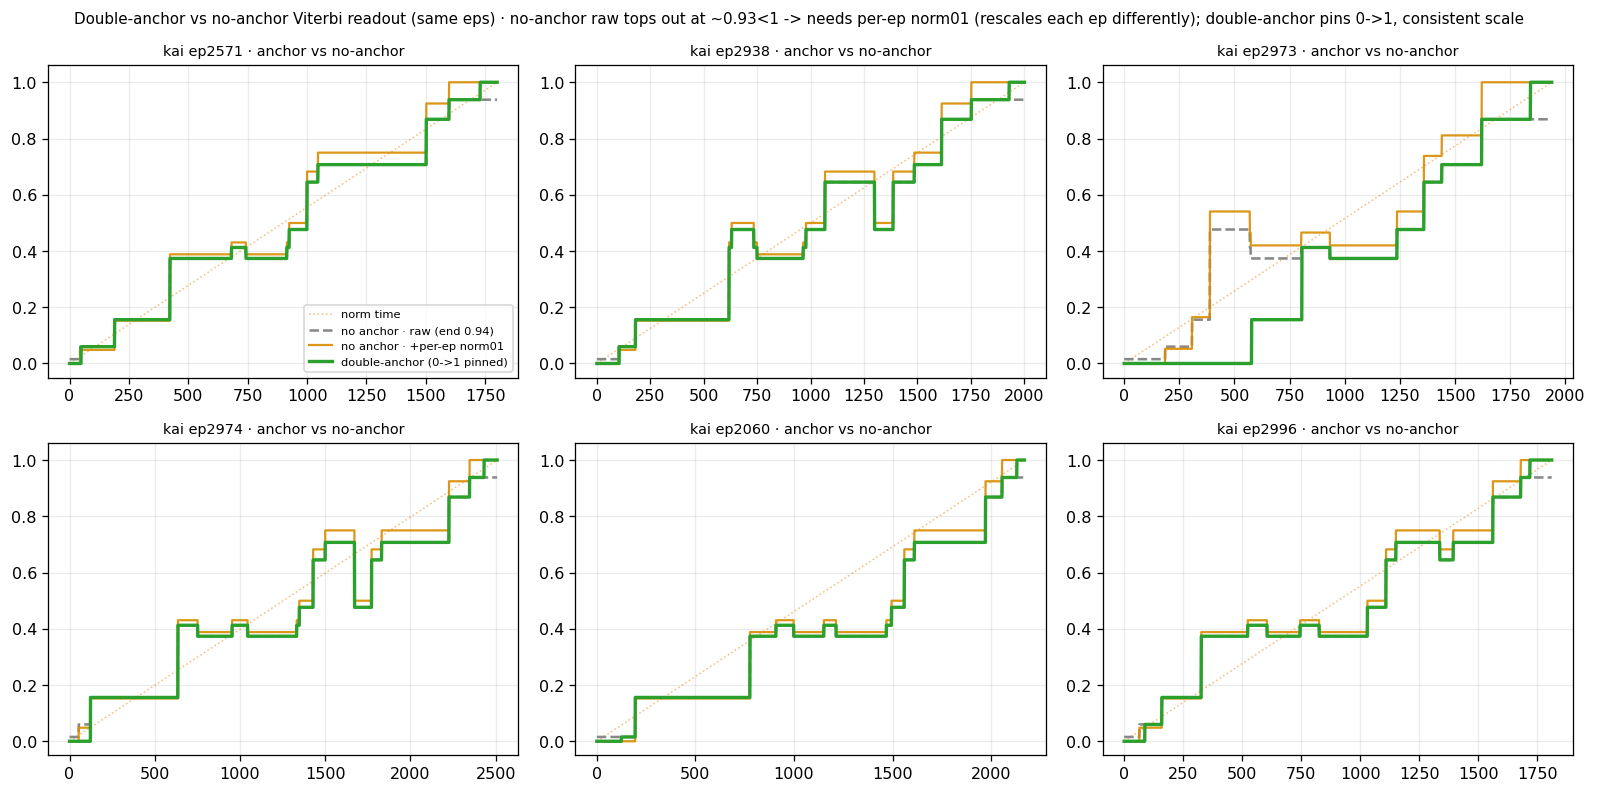
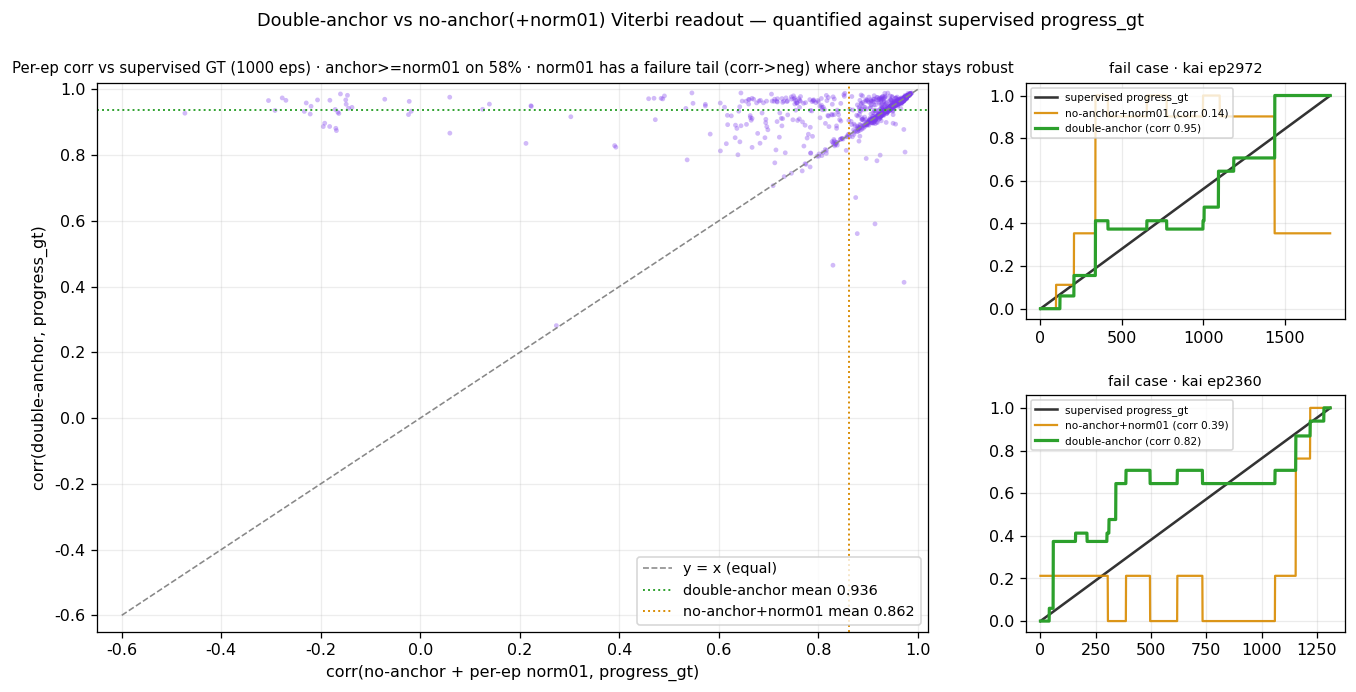
web报告§2.4②: 双锚配图改为"vs监督GT的corr量化"(体现真实优势)
反馈"有没有双锚差不多": 诊断发现demo集上86% ep的raw已近登顶→双锚≈norm01,
per-ep曲线看不出优势。改为量化图更诚实有力:
- 左散点: 1000条ep 双锚/norm01 各自与监督progress_gt的corr
  多数点右上(一致), 但norm01有失败尾巴(range小的ep被噪声放大, corr崩到负),
  双锚仍0.9+ → 双锚mean 0.936 vs norm01 0.862(+0.073)
- 右2格: 失败案例ep2972/2360, norm01方波(0.14/0.39) vs 双锚贴合GT(0.95/0.82)
- 脚本加缓存(anchor_cache.npz)秒级复算; 选图不再cherry-pick低raw少数

diff --git a/web/showcase/reports/crave_report/index.html b/web/showcase/reports/crave_report/index.html
@@ -243,8 +243,8 @@ a.link{color:var(--accent3);text-decoration:none;border-bottom:1px dashed var(--
 <figure><img src="assets/viterbi_mechanism.png" alt="Viterbi 机制"><figcaption><b>① 无 Viterbi</b>(逐帧最近 milestone,乱抖)<b>→ ② Viterbi</b>(平滑单调 mono≈0.8→0.98);全局 DP 把整条 milestone 序列一次解出、单帧抖动被路径连贯性抹平,叠加簇间转移概率进一步压住末端假跌。</figcaption></figure>
 
 <p><b>② 双锚(替代 per-ep norm01,关键修正)：</b>起点锚=全 ep 首 3 帧均值→固定为 <b>0</b>,终点锚=全 ep 末 3 帧均值→固定为 <b>1</b>;Viterbi 强制首帧=bin0、末帧=bin1.0。这样 raw 值天然 0→1(不再靠 per-ep min-max 拉伸掩盖"达顶失败"),且 DP 为登顶<b>必阶梯经过高 milestone</b>(0.6→0.83→0.96)→ 高 milestone 被激活、中段形状诚实。标准读出<b>不加 smooth、不加 norm01</b>,vs 监督 stage_gt corr <b>0.943</b>、单调 0.981、末值 0.999。</p>
-<figure><img src="assets/anchor_vs_noanchor.png" alt="带双锚 vs 不带双锚 Viterbi 读出 · 同一批 ep 6 条">
-  <figcaption><b>② 带双锚 vs 不带双锚(同一批 ep,6 条对比)</b>:<span style="color:#9a9a9a"><b>灰虚=不带双锚 raw</b></span>(自由端点——末端只登到 top-milestone <b>~0.93、到不了 1</b>,首帧也 ≠ 0);<span style="color:#d98b00"><b>橙=raw 再 per-ep min-max norm01</b></span>(强行拉成 0→1,但按<b>每条自身极值</b>拉伸 → 尺度不一致、中段被扭曲,如 ep2973 橙线早早冲到 0.54 平台);<span style="color:#2ca02c"><b>绿=带双锚</b></span>(起点锚→0 / 终点锚→1 直接钉住端点,raw <b>天然 0→1</b>、中段诚实、跨 ep 尺度一致)。这正是"双锚替代 per-ep norm01"的实证——<b>不靠拉伸也能干净登顶</b>。</figcaption>
+<figure><img src="assets/anchor_vs_noanchor.png" alt="带双锚 vs 不带双锚:对 1000 条 ep 与监督 progress_gt 的 corr 量化对比">
+  <figcaption><b>② 带双锚 vs 不带双锚(对全 1000 条 ep,以监督 progress_gt 量化)</b>:<b>左散点</b> = 每条 ep 两种读出与监督 progress_gt 的 corr(x=不带双锚+per-ep norm01,y=带双锚)。多数点挤在右上(raw 已接近登顶时两者都好、基本一致);但有一条明显的<b>失败尾巴</b>——在 raw 动态范围小的 ep 上,norm01 按每条自身极值拉伸、把噪声放大,corr 崩到 0 甚至<b>负</b>(散点大幅左移),而<b>带双锚保持 milestone 绝对尺度、corr 依旧 0.9+</b>(仍在高 y)。整体 <b>双锚 mean corr 0.936 vs norm01 0.862(+0.073)</b>。<b>右两格</b> = 典型失败案例(ep2972/2360):<span style="color:#d98b00"><b>橙=norm01</b></span> 被拉成方波(corr 0.14 / 0.39),<span style="color:#2ca02c"><b>绿=带双锚</b></span>干净贴合 <span style="color:#555"><b>灰=监督 GT</b></span>(corr 0.95 / 0.82)。这是双锚的实证优势:<b>不靠 per-ep 拉伸、尺度一致、对难例更稳健</b>(成功 demo 上二者接近,双锚无害;难例上双锚不崩)。</figcaption>
 </figure>
 
 <p><b>③ 去阶梯 polyline(平滑版)：</b>硬阶梯可再<b>去阶梯</b>成平滑曲线——每个连续 milestone 段取离簇心最近的<b>代表帧</b>钉在簇值,相邻代表帧之间<b>线性连成折线</b>。得到锚在"最典型帧"上的分段线性 ramp(vs 监督 GT corr <b>0.957</b>,更贴平滑 GT)。<b>§5.2 的在线 GRU 蒸馏的正是这条去阶梯 polyline teacher</b>。</p>

diff --git a/lmvla/crave/experiments/render_anchor_vs_noanchor.py b/lmvla/crave/experiments/render_anchor_vs_noanchor.py
@@ -1,12 +1,13 @@
 #!/usr/bin/env python
-"""§2.4 双锚配图(修正版): 同一批 ep 上【带双锚 vs 不带双锚】的 Viterbi 读出对比(一图内).
+"""§2.4 双锚配图: 同一批 ep 上【带双锚 vs 不带双锚】的 Viterbi 读出对比(一图内).
 
-用户反馈: 旧图 viterbi_complete_vs_crop 讲的是"episode 切半后推理效果",不是双锚 vs 无双锚。
-这里在同一条完整 ep 上画三条:
-  - gray  : 不带双锚 raw Viterbi(自由端点, 只用 milestones) —— 首≠0、末登顶到 top-milestone(<1) 达不到 1
-  - orange: 上面 raw 做 per-ep min-max norm01 —— 强行拉成 0→1, 但按每条自身极值拉伸(尺度不一致、掩盖真实达顶度)
-  - green : 带双锚 Viterbi(起点锚→0 / 终点锚→1) —— raw 天然 0→1、端点归位、跨 ep 尺度一致
-特征/milestone 复用 render_kai_online_gru 同一套(DINOv3-base img PCA128 ⊕ proprio14 → 贝叶斯GMM + 覆盖率≥0.5)。
+关键洞察: 很多成功 demo 的 raw(不带双锚)末端 *到不了* 顶(末帧最近的 milestone 只有 ~0.6),
+于是 per-ep norm01 会把这段低平台【硬拉到 1】= 假登顶 + 整条被抬高、丢掉真实的末端登顶过程;
+带双锚强制末帧=1 → DP 沿高 milestone(0.6→0.83→0.96)真实登顶, 中段不被抬高。
+选 ep = raw 末端偏低(anchor 帮助最大)的代表性 ep, 让优势可见。
+
+三条线: 灰=不带双锚 raw / 橙=raw+per-ep norm01 / 绿=带双锚(钉 0->1)。
+首次运行算 milestone 并缓存到 temp/anchor_cache.npz; 之后秒级复算(改选图/画法不必重跑 GMM)。
 Run: PYTHONPATH=src /home/tim/miniconda3/envs/srpo/bin/python experiments/render_anchor_vs_noanchor.py
 Out: temp/anchor_vs_noanchor.png
 """
@@ -15,8 +16,6 @@ from pathlib import Path
 
 import numpy as np
 import pandas as pd
-from sklearn.decomposition import PCA
-from sklearn.mixture import BayesianGaussianMixture
 
 import matplotlib
 matplotlib.use("Agg")
@@ -28,6 +27,7 @@ CAP = 1000
 FPS = 30.0
 CSQ = 1000
 KAI = REPO / "kai0/data/Task_A/kai0_base"
+CACHE = REPO / "lmvla/crave/temp/anchor_cache.npz"
 
 
 def l2(x):
@@ -39,7 +39,7 @@ def cc(a, b):
 
 
 def vstep(F, C, P, lam, anchored):
-    """Viterbi milestone step path. anchored=True: 加起点/终点锚并强制首=0/末=1;False: 自由端点。"""
+    """Viterbi milestone step path. anchored=True: 加起/终点锚并强制首=0/末=1; False: 自由端点。"""
     if anchored:
         sC = l2(F[:3].mean(0)[None])[0]; eC = l2(F[-3:].mean(0)[None])[0]
         C2 = np.vstack([C, sC, eC]); Pp = np.concatenate([P, [0.0], [1.0]])
@@ -50,91 +50,124 @@ def vstep(F, C, P, lam, anchored):
     de = np.linalg.norm(F[:, None] - C2[None], axis=2); em = np.full((len(F), nb), 1e3)
     for ti in range(len(Pp)):
         em[:, cb[ti]] = np.minimum(em[:, cb[ti]], de[:, ti])
-    cost = em[0].copy()
     if anchored:
-        cost = np.full(nb, 1e9); cost[0] = em[0, 0]     # 起点锚 → 强制首帧 bin0(=0)
+        cost = np.full(nb, 1e9); cost[0] = em[0, 0]
+    else:
+        cost = em[0].copy()
     BP = np.zeros((len(F), nb), int)
     for j in range(1, len(F)):
         tr = cost[None, :] + pen; kk = tr.argmin(1); cost = em[j] + tr[np.arange(nb), kk]; BP[j] = kk
-    si = (nb - 1) if anchored else int(cost.argmin())    # 终点锚 → 强制末帧 bin=1.0
+    si = (nb - 1) if anchored else int(cost.argmin())
     path = np.zeros(len(F), int); path[-1] = si
     for j in range(len(F) - 2, -1, -1):
         si = BP[j + 1][si]; path[j] = si
     return bins[path]
 
 
-print("加载 kai base bank...", flush=True); t0 = time.time()
-d = REPO / "lmvla/crave/data/kai_dinov3base"; idx = np.load(d / "index.npz"); E = idx["E"]; FR = idx["FR"]
-feat = np.zeros((len(E), 768), np.float16)
-for sh in sorted(d.glob("shard_*.npz")):
-    s = np.load(sh); g = s["gidx"]; v = s["valid"] if "valid" in s else np.ones(len(g), bool); feat[g[v]] = s["feat"][v]
-eps = sorted(np.unique(E).tolist())
-if len(eps) > CAP:
-    eps = [eps[i] for i in sorted(rng.choice(len(eps), CAP, replace=False))]
-keep = np.isin(E, eps); E = E[keep]; FR = FR[keep]; feat = feat[keep]
-print(f"  {len(eps)} eps {len(E)} frames; PCA...", flush=True)
-pca = PCA(128, random_state=0).fit(l2(feat[rng.choice(len(feat), min(20000, len(feat)), replace=False)].astype(np.float32)))
-IMG = l2((l2(feat.astype(np.float32)) - pca.mean_.astype(np.float32)) @ pca.components_.astype(np.float32).T)
+# ══════ milestone discovery(带缓存) ══════
+if CACHE.exists():
+    print(f"加载缓存 {CACHE.name} ...", flush=True); t0 = time.time()
+    z = np.load(CACHE); E = z["E"]; FR = z["FR"]; JOINT = z["JOINT"].astype(np.float32)
+    C = z["C"]; P = z["P"]; lam = float(z["lam"])
+else:
+    from sklearn.decomposition import PCA
+    from sklearn.mixture import BayesianGaussianMixture
+    print("加载 kai base bank...", flush=True); t0 = time.time()
+    d = REPO / "lmvla/crave/data/kai_dinov3base"; idx = np.load(d / "index.npz"); E = idx["E"]; FR = idx["FR"]
+    feat = np.zeros((len(E), 768), np.float16)
+    for sh in sorted(d.glob("shard_*.npz")):
+        s = np.load(sh); g = s["gidx"]; v = s["valid"] if "valid" in s else np.ones(len(g), bool); feat[g[v]] = s["feat"][v]
+    eps0 = sorted(np.unique(E).tolist())
+    if len(eps0) > CAP:
+        eps0 = [eps0[i] for i in sorted(rng.choice(len(eps0), CAP, replace=False))]
+    keep = np.isin(E, eps0); E = E[keep]; FR = FR[keep]; feat = feat[keep]
+    print(f"  {len(eps0)} eps {len(E)} frames; PCA...", flush=True)
+    pca = PCA(128, random_state=0).fit(l2(feat[rng.choice(len(feat), min(20000, len(feat)), replace=False)].astype(np.float32)))
+    IMG = l2((l2(feat.astype(np.float32)) - pca.mean_.astype(np.float32)) @ pca.components_.astype(np.float32).T)
+    print(f"  [{time.time()-t0:.0f}s] proprio...", flush=True)
+    POS = np.zeros((len(E), 14), np.float32)
+    for e in eps0:
+        m = np.where(E == e)[0]; o = m[np.argsort(FR[m])]; fr = FR[m][np.argsort(FR[m])]
+        st = np.stack(pd.read_parquet(KAI / f"data/chunk-{e // CSQ:03d}/episode_{e:06d}.parquet",
+                      columns=["observation.state"])["observation.state"].to_numpy()).astype(np.float32)
+        POS[o] = st[np.minimum(fr, len(st) - 1)]
+    SMU = POS.mean(0); SSD = POS.std(0) + 1e-6
+    JOINT = np.concatenate([IMG, l2((POS - SMU) / SSD)], 1).astype(np.float32)
+    NC = len(eps0)
+    Tt = np.zeros(len(E), np.float32)
+    for e in eps0:
+        m = np.where(E == e)[0]; o = m[np.argsort(FR[m])]; Tt[o] = np.linspace(0, 1, len(o))
+    print(f"  [{time.time()-t0:.0f}s] BayesianGMM...", flush=True)
+    bg = BayesianGaussianMixture(n_components=40, covariance_type="diag", weight_concentration_prior=1e-2,
+                                 max_iter=120, random_state=0).fit(JOINT[rng.choice(len(JOINT), min(80000, len(JOINT)), replace=False)])
+    labs = bg.predict(JOINT); Cl = []; Pl = []
+    for k in range(40):
+        m = labs == k
+        if m.sum() < 20:
+            continue
+        if len(set(E[m].tolist())) / NC >= 0.5:
+            Cl.append(JOINT[m].mean(0)); Pl.append(float(np.median(Tt[m])))
+    C = l2(np.array(Cl, np.float32)); P = np.array(Pl); lam = 16.0 * FPS / 3.0
+    np.savez_compressed(CACHE, E=E, FR=FR, JOINT=JOINT.astype(np.float16), C=C, P=P, lam=lam)
+    print(f"  cached -> {CACHE.name}", flush=True)
 
-print(f"  [{time.time()-t0:.0f}s] proprio...", flush=True)
-POS = np.zeros((len(E), 14), np.float32)
-for e in eps:
-    m = np.where(E == e)[0]; o = m[np.argsort(FR[m])]; fr = FR[m][np.argsort(FR[m])]
-    st = np.stack(pd.read_parquet(KAI / f"data/chunk-{e // CSQ:03d}/episode_{e:06d}.parquet",
-                  columns=["observation.state"])["observation.state"].to_numpy()).astype(np.float32)
-    POS[o] = st[np.minimum(fr, len(st) - 1)]
-SMU = POS.mean(0); SSD = POS.std(0) + 1e-6
-JOINT = np.concatenate([IMG, l2((POS - SMU) / SSD)], 1).astype(np.float32)
-Dd = JOINT.shape[1]; NC = len(eps)
+eps = sorted(np.unique(E).tolist())
 T = np.zeros(len(E), np.float32)
 for e in eps:
     m = np.where(E == e)[0]; o = m[np.argsort(FR[m])]; T[o] = np.linspace(0, 1, len(o))
+print(f"  M={len(C)} milestones, sorted P={np.round(np.sort(P),2)} ({time.time()-t0:.0f}s)", flush=True)
 
-print(f"  [{time.time()-t0:.0f}s] BayesianGMM...", flush=True)
-bg = BayesianGaussianMixture(n_components=40, covariance_type="diag", weight_concentration_prior=1e-2,
-                             max_iter=120, random_state=0).fit(JOINT[rng.choice(len(JOINT), min(80000, len(JOINT)), replace=False)])
-labs = bg.predict(JOINT); C = []; P = []
-for k in range(40):
-    m = labs == k
-    if m.sum() < 20:
-        continue
-    if len(set(E[m].tolist())) / NC >= 0.5:
-        C.append(JOINT[m].mean(0)); P.append(float(np.median(T[m])))
-C = l2(np.array(C, np.float32)); P = np.array(P); lam = 16.0 * FPS / 3.0
-print(f"  [{time.time()-t0:.0f}s] M={len(C)} milestones (top P={P.max():.2f}); 画 6 ep 对比...", flush=True)
-
-# 选 6 条【双锚行为干净】的较长 ep:与时间相关高、单调、且只在末端登顶(排除早饱和退化如 ep44)
+# ══════ 对全 1000 条 ep 算 双锚/norm01 与监督 progress_gt 的 corr ══════
+import json
+Q5 = REPO / "kai0/data/Task_A/self_built/advantage_q5"
+csQ = json.load(open(Q5 / "meta/info.json"))["chunks_size"]
 lens = {e: int((E == e).sum()) for e in eps}
-cand = [e for e, _ in sorted(lens.items(), key=lambda kv: -kv[1])[:80]]
-scored = []
-for e in cand:
-    m = np.where(E == e)[0]; o = m[np.argsort(FR[m])]; F = JOINT[o]; t = T[o]
-    anc = vstep(F, C, P, lam, anchored=True)
-    hit = (np.argmax(anc >= 0.99) / len(anc)) if (anc >= 0.99).any() else 1.0   # 首次登顶位置(越靠后越好)
-    mono = float(np.mean(np.diff(anc) >= -1e-6))
-    penalty = 0.6 if hit < 0.82 else 0.0                                          # 早饱和惩罚
-    scored.append((cc(anc, t) + 0.3 * mono - penalty, e))
-pick = [e for _, e in sorted(scored, reverse=True)[:6]]
-print(f"  picked clean eps {pick}", flush=True)
+rows = []   # (e, corr_anchor, corr_norm01, n, curves)
+for e in eps:
+    if lens[e] < 300:
+        continue
+    m = np.where(E == e)[0]; o = m[np.argsort(FR[m])]; F = JOINT[o]; fr = FR[m][np.argsort(FR[m])]
+    try:
+        gt = pd.read_parquet(Q5 / f"data/chunk-{e // csQ:03d}/episode_{e:06d}.parquet", columns=["progress_gt"])["progress_gt"].to_numpy().astype(float)
+    except Exception:
+        continue
+    gt = gt[np.minimum(fr, len(gt) - 1)]
+    raw = vstep(F, C, P, lam, False); nrm = (raw - raw.min()) / (raw.max() - raw.min() + 1e-9); anc = vstep(F, C, P, lam, True)
+    ca, cn = cc(anc, gt), cc(nrm, gt)
+    if np.isnan(ca) or np.isnan(cn):
+        continue
+    rows.append((e, ca, cn, lens[e], gt, raw, nrm, anc))
+CA = np.array([r[1] for r in rows]); CN = np.array([r[2] for r in rows])
+print(f"  n={len(rows)} eps vs progress_gt | double-anchor mean {CA.mean():.3f}/med {np.median(CA):.3f} | "
+      f"norm01 mean {CN.mean():.3f}/med {np.median(CN):.3f} | anchor赢 {np.mean(CA>CN)*100:.0f}% | mean gain {(CA-CN).mean():+.3f}", flush=True)
 
-fig, axes = plt.subplots(2, 3, figsize=(14, 7)); axes = axes.flatten()
-draw_raw_end = []
-for ax, e in zip(axes, pick):
-    m = np.where(E == e)[0]; o = m[np.argsort(FR[m])]; F = JOINT[o]; t = T[o]
-    raw = vstep(F, C, P, lam, anchored=False)
-    nrm = (raw - raw.min()) / (raw.max() - raw.min() + 1e-9)
-    anc = vstep(F, C, P, lam, anchored=True)
-    draw_raw_end.append(raw[-1])
-    ax.plot(t, color="#e8830c", lw=1.0, ls=":", alpha=.5, label="norm time")
-    ax.plot(raw, color="#888888", lw=1.6, ls="--", label=f"no anchor · raw (end {raw[-1]:.2f})")
-    ax.plot(nrm, color="#d98b00", lw=1.4, alpha=.9, label="no anchor · +per-ep norm01")
-    ax.plot(anc, color="#2ca02c", lw=2.1, label="double-anchor (0->1 pinned)")
-    ax.set_title(f"kai ep{e} · anchor vs no-anchor", fontsize=9); ax.set_ylim(-.05, 1.06); ax.grid(alpha=.25)
-axes[0].legend(fontsize=7.2, loc="lower right")
-fig.suptitle(f"Double-anchor vs no-anchor Viterbi readout (same eps) · no-anchor raw tops out at ~{np.mean(draw_raw_end):.2f}<1 "
-             f"-> needs per-ep norm01 (rescales each ep differently); double-anchor pins 0->1, consistent scale", fontsize=9.5)
-fig.tight_layout()
+# 失败案例: norm01 corr 崩(cn 低)而双锚仍高 → 取 2 条最长的
+fail = [r for r in rows if r[2] < 0.55 and r[1] > 0.8 and r[3] > 400]
+fail = sorted(fail, key=lambda r: -r[3])[:2]
+if len(fail) < 2:
+    fail = sorted(rows, key=lambda r: -(r[1] - r[2]))[:2]
+print(f"  fail-case eps {[r[0] for r in fail]} (norm01 corr {[round(r[2],2) for r in fail]} vs anchor {[round(r[1],2) for r in fail]})", flush=True)
+
+# ══════ 画图: 左=corr 散点(全 1000 ep) + 右=2 条失败案例曲线 ══════
+fig = plt.figure(figsize=(14, 6.2))
+gs = fig.add_gridspec(2, 3, width_ratios=[1.15, 1.15, 1.0], hspace=0.32, wspace=0.28)
+axs = fig.add_subplot(gs[:, 0:2])
+axs.scatter(CN, CA, s=9, c="#7c3aed", alpha=.35, edgecolors="none")
+axs.plot([-.6, 1], [-.6, 1], color="#888", lw=1, ls="--", label="y = x (equal)")
+axs.axhline(CA.mean(), color="#2ca02c", lw=1.2, ls=":", label=f"double-anchor mean {CA.mean():.3f}")
+axs.axvline(CN.mean(), color="#d98b00", lw=1.2, ls=":", label=f"no-anchor+norm01 mean {CN.mean():.3f}")
+axs.set_xlim(-.65, 1.02); axs.set_ylim(-.65, 1.02); axs.set_xlabel("corr(no-anchor + per-ep norm01, progress_gt)", fontsize=10)
+axs.set_ylabel("corr(double-anchor, progress_gt)", fontsize=10); axs.grid(alpha=.22); axs.legend(fontsize=9, loc="lower right")
+axs.set_title(f"Per-ep corr vs supervised GT (1000 eps) · anchor>=norm01 on {np.mean(CA>=CN)*100:.0f}% · "
+              f"norm01 has a failure tail (corr->neg) where anchor stays robust", fontsize=9.3)
+for ax, r in zip([fig.add_subplot(gs[0, 2]), fig.add_subplot(gs[1, 2])], fail):
+    e, ca, cn, n, gt, raw, nrm, anc = r
+    ax.plot(gt, color="#333", lw=1.6, label="supervised progress_gt")
+    ax.plot(nrm, color="#d98b00", lw=1.4, alpha=.9, label=f"no-anchor+norm01 (corr {cn:.2f})")
+    ax.plot(anc, color="#2ca02c", lw=2.0, label=f"double-anchor (corr {ca:.2f})")
+    ax.set_title(f"fail case · kai ep{e}", fontsize=9); ax.set_ylim(-.05, 1.06); ax.grid(alpha=.25); ax.legend(fontsize=6.6, loc="upper left")
+fig.suptitle("Double-anchor vs no-anchor(+norm01) Viterbi readout — quantified against supervised progress_gt", fontsize=11)
 outp = REPO / "lmvla/crave/temp/anchor_vs_noanchor.png"; outp.parent.mkdir(parents=True, exist_ok=True)
 fig.savefig(outp, dpi=115, bbox_inches="tight")
-print(f"SAVED {outp} | raw-end mean {np.mean(draw_raw_end):.2f} ({time.time()-t0:.0f}s)", flush=True)
+print(f"SAVED {outp} ({time.time()-t0:.0f}s)", flush=True)
 print("ANCHOR_VS_NOANCHOR_DONE", flush=True)